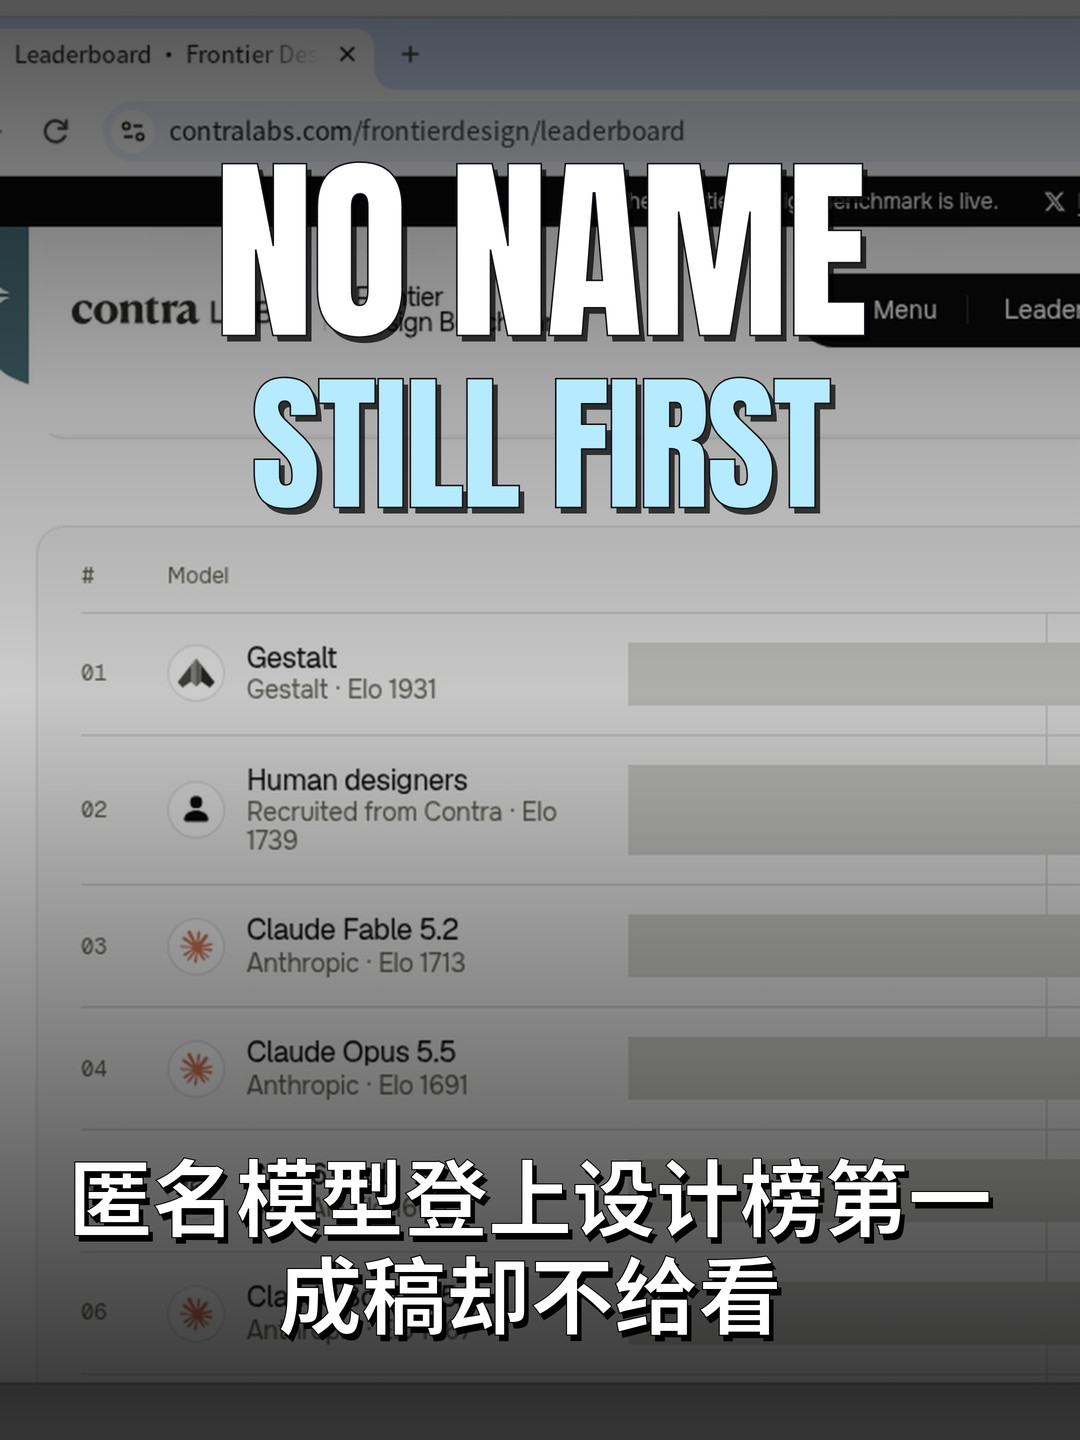
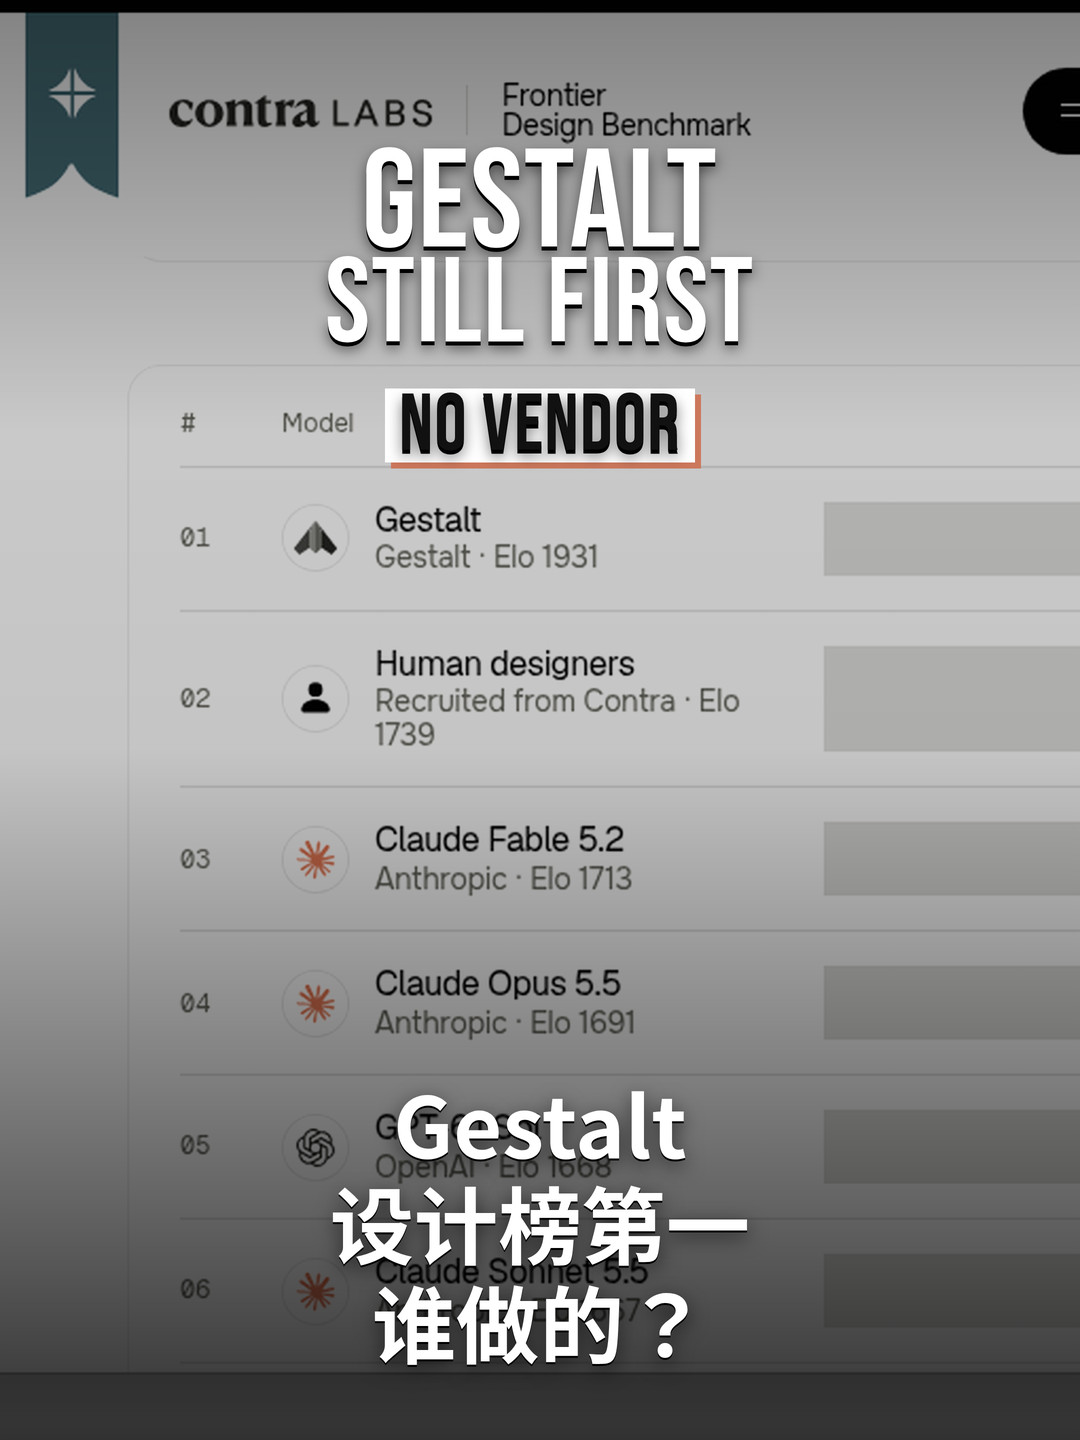
tvp: refresh Gestalt covers and PUBLISH copy (video unchanged)

diff --git a/public/tvp/gestalt-stealth-design/index.html b/public/tvp/gestalt-stealth-design/index.html
@@ -20,20 +20,19 @@
 </div>
 <p class="muted">抖音/视频号统一用1080×1440 JPG原文件，请勿经微信/QQ转发后再上传。已避开主页左上、右下角标区。</p>
 <div class="buttons"><a href="PUBLISH.md">下载全部文案</a><a href="SOURCES.md">信源与演示说明</a></div>
-<section><h2>A｜主推版</h2><button onclick="copyText('a',this)">复制文案</button><pre id="a">匿名模型 Gestalt：没公开名字，却登上 Contra 公开设计榜第一。
-Contra 公开榜（Updated Nov 2026 · 27 Contra jobs）写明：Gestalt Elo 1931，420 票胜率 90%。第二是人类设计师 1739，第三是 Claude Fable 5.2 的 1713。
-2026年11月18日的研究报告写明：和人类参考稿对决时，28 次里有 20 次选了它。
-评的是按真实客户简报做出来的网站。35 位职业设计师盲评，一共投了 4311 张票。
-它没有公开接口，作品廊里也没有它的成稿。公开榜的规则标签上 Gestalt 是 83，两款 Claude 是 84；痕迹标签上它是 1，和人类设计师并列。规则分和痕迹分是另一套公开榜标签，不是 Elo。
-这支只核验官方展示，没有独立实测。模型未公开，也还不能公开试用。
-#Gestalt #Contra #设计榜 #科技快播 #老李的AI江湖</pre></section><section><h2>B｜一句话短版</h2><button onclick="copyText('b',this)">复制文案</button><pre id="b">匿名模型 Gestalt 登上 Contra 公开设计榜第一，评分 1931，420 票胜率 90%。模型未公开、不能试用，作品廊也没有它的成稿。本片只核验官方展示，没有独立实测。
-#Gestalt #Contra #科技快播 #老李的AI江湖</pre></section><section><h2>C｜结构化要点版</h2><button onclick="copyText('c',this)">复制文案</button><pre id="c">匿名模型 Gestalt：登上 Contra 公开设计榜第一
-▪ 公开榜（Updated Nov 2026 · 27 Contra jobs）：Gestalt Elo 1931，胜率 90%（CI 86–92），420 票。
-▪ 第二人类设计师 1739（74%，571 票）；第三 Claude Fable 5.2 为 1713（73%，683 票）。
-▪ 页脚：4311 次盲投，35 位职业设计师，33 个 brief。
-▪ 2026年11月18日研究报告：对人类参考稿 28 次里 20 次选它（勿与公开榜 1931 混读）。
-▪ 公开榜规则标签（百分，均分 69）：Fable 84、Opus 84、Gestalt 83；痕迹标签（越低越像人做，均分 32）：人类设计师、Gestalt、DeepSeek V4 Pro 均为 1。这不是 Elo。
-▪ 作品廊没有 Gestalt 成稿。模型未公开，无公开接口。本片只核验官方展示，没有独立实测。
+<section><h2>A｜主推版</h2><button onclick="copyText('a',this)">复制文案</button><pre id="a">Gestalt：登上了 Contra 的公开设计榜第一，厂商却还没公布。
+Contra 公开榜写明，它的评分是 1931，420 票里胜率 90%。
+2026年11月18日的研究报告写明，和人类参考稿对决时，28 次里有 20 次选了它。
+评的是按真实客户简报做出来的网站，由职业设计师盲评。厂商未公布，作品廊里也没有它的成稿，也不能公开试用。
+本片只核验官方展示，没有独立实测。
+一个拿了第一、却还没公布厂商和成稿的模型，你怎么看？
+#Gestalt #Contra #设计榜 #科技快播 #老李的AI江湖</pre></section><section><h2>B｜一句话短版</h2><button onclick="copyText('b',this)">复制文案</button><pre id="b">Gestalt 登上 Contra 公开设计榜第一，评分 1931，420 票胜率 90%。厂商未公布，也不能公开试用。本片只核验官方展示，没有独立实测。
+#Gestalt #Contra #科技快播 #老李的AI江湖</pre></section><section><h2>C｜结构化要点版</h2><button onclick="copyText('c',this)">复制文案</button><pre id="c">Gestalt：登上 Contra 公开设计榜第一
+▪ Contra 公开榜写明，评分是 1931，420 票里胜率 90%。
+▪ 评的是按真实客户简报做出来的网站，由职业设计师盲评。
+▪ 2026年11月18日的研究报告写明，和人类参考稿对决时，28 次里有 20 次选了它。
+▪ 厂商未公布，作品廊里也没有它的成稿，也不能公开试用。
+本片只核验官方展示，没有独立实测。
 #Gestalt #Contra #设计AI #科技快播 #老李的AI江湖</pre></section>
 <section><h2>边界</h2>
 <p>评的是按真实客户简报做出来的网站。公开榜与 2026年11月18日研究报告是两套数字，不能混读。规则标签和痕迹标签也不是 Elo。</p>

diff --git a/public/tvp/gestalt-stealth-design/PUBLISH.md b/public/tvp/gestalt-stealth-design/PUBLISH.md
@@ -1,22 +1,21 @@
 ### A｜主推版
-匿名模型 Gestalt：没公开名字，却登上 Contra 公开设计榜第一。
-Contra 公开榜（Updated Nov 2026 · 27 Contra jobs）写明：Gestalt Elo 1931，420 票胜率 90%。第二是人类设计师 1739，第三是 Claude Fable 5.2 的 1713。
-2026年11月18日的研究报告写明：和人类参考稿对决时，28 次里有 20 次选了它。
-评的是按真实客户简报做出来的网站。35 位职业设计师盲评，一共投了 4311 张票。
-它没有公开接口，作品廊里也没有它的成稿。公开榜的规则标签上 Gestalt 是 83，两款 Claude 是 84；痕迹标签上它是 1，和人类设计师并列。规则分和痕迹分是另一套公开榜标签，不是 Elo。
-这支只核验官方展示，没有独立实测。模型未公开，也还不能公开试用。
+Gestalt：登上了 Contra 的公开设计榜第一，厂商却还没公布。
+Contra 公开榜写明，它的评分是 1931，420 票里胜率 90%。
+2026年11月18日的研究报告写明，和人类参考稿对决时，28 次里有 20 次选了它。
+评的是按真实客户简报做出来的网站，由职业设计师盲评。厂商未公布，作品廊里也没有它的成稿，也不能公开试用。
+本片只核验官方展示，没有独立实测。
+一个拿了第一、却还没公布厂商和成稿的模型，你怎么看？
 #Gestalt #Contra #设计榜 #科技快播 #老李的AI江湖
 
 ### B｜一句话短版
-匿名模型 Gestalt 登上 Contra 公开设计榜第一，评分 1931，420 票胜率 90%。模型未公开、不能试用，作品廊也没有它的成稿。本片只核验官方展示，没有独立实测。
+Gestalt 登上 Contra 公开设计榜第一，评分 1931，420 票胜率 90%。厂商未公布，也不能公开试用。本片只核验官方展示，没有独立实测。
 #Gestalt #Contra #科技快播 #老李的AI江湖
 
 ### C｜结构化要点版
-匿名模型 Gestalt：登上 Contra 公开设计榜第一
-▪ 公开榜（Updated Nov 2026 · 27 Contra jobs）：Gestalt Elo 1931，胜率 90%（CI 86–92），420 票。
-▪ 第二人类设计师 1739（74%，571 票）；第三 Claude Fable 5.2 为 1713（73%，683 票）。
-▪ 页脚：4311 次盲投，35 位职业设计师，33 个 brief。
-▪ 2026年11月18日研究报告：对人类参考稿 28 次里 20 次选它（勿与公开榜 1931 混读）。
-▪ 公开榜规则标签（百分，均分 69）：Fable 84、Opus 84、Gestalt 83；痕迹标签（越低越像人做，均分 32）：人类设计师、Gestalt、DeepSeek V4 Pro 均为 1。这不是 Elo。
-▪ 作品廊没有 Gestalt 成稿。模型未公开，无公开接口。本片只核验官方展示，没有独立实测。
+Gestalt：登上 Contra 公开设计榜第一
+▪ Contra 公开榜写明，评分是 1931，420 票里胜率 90%。
+▪ 评的是按真实客户简报做出来的网站，由职业设计师盲评。
+▪ 2026年11月18日的研究报告写明，和人类参考稿对决时，28 次里有 20 次选了它。
+▪ 厂商未公布，作品廊里也没有它的成稿，也不能公开试用。
+本片只核验官方展示，没有独立实测。
 #Gestalt #Contra #设计AI #科技快播 #老李的AI江湖

diff --git a/public/tvp/gestalt-stealth-design/STATUS.md b/public/tvp/gestalt-stealth-design/STATUS.md
@@ -3,6 +3,14 @@
 Composition/Deliverable: **1440×2560 true 2K · no 4K unless Justin asks**.
 Local kit ready 2026-11-22 00:22 Asia/Shanghai. No social platform posting, no repo change, no upload.
 
+
+## 2026-11-22 00:40 Asia/Shanghai · 封面与文案纠正（视频未改）
+- 按技能与锁定模板重出双封面和 `PUBLISH.md`；旧稿备份在 `backup_cover_publish_20261122/`。
[1 lines of base64/hex data omitted]
+- 封面改回锁定模板结构（Bebas / Oswald / Noto Sans CJK SC，B 白底色块条，A 垂直水平居中）。中文前置 Gestalt；英文不再用 NO NAME。底图裁去浏览器标签与地址栏，保留 Gestalt · Elo 1931。
+- PUBLISH 改为口语，删除规则标签 / 痕迹标签 / 不是 Elo / CI / 均分 / 勿混读等内部说明；A 补 CTA 问句。口径为「厂商未公布」，不用「没公开名字」。
+- 随后只改 A：换官方榜单另一裁切（仍无浏览器壳），让 Gestalt · Elo 1931 出现在居中黄胶囊上方；B 与 MP4 未动。PUBLISH 仅将「百分之九十」改为「90%」。
+
 ## Delivery
 - Video: `/workspace/gestalt_stealth_design_20261121/outputs/gestalt_stealth_design_2k.mp4`
 - Bytes: 17808866
@@ -51,6 +59,7 @@ Local kit ready 2026-11-22 00:22 Asia/Shanghai. No social platform posting, no r
 - Pages: https://stefli.github.io/wechat/tvp/gestalt-stealth-design/
 - Release: https://github.com/stefli/wechat/releases/tag/tvp-gestalt-stealth-design
 - Asset: https://github.com/stefli/wechat/releases/download/tvp-gestalt-stealth-design/gestalt_stealth_design_2k.mp4
+- 本次只更新封面与文案，未重传或改动 2K 视频。
 
 ## 未做
-- 不发社交。GitHub Release / Pages 由本次本地发布流程接上。
+- 不发社交。封面与文案由本次本地发布流程更新到已有 Pages。
